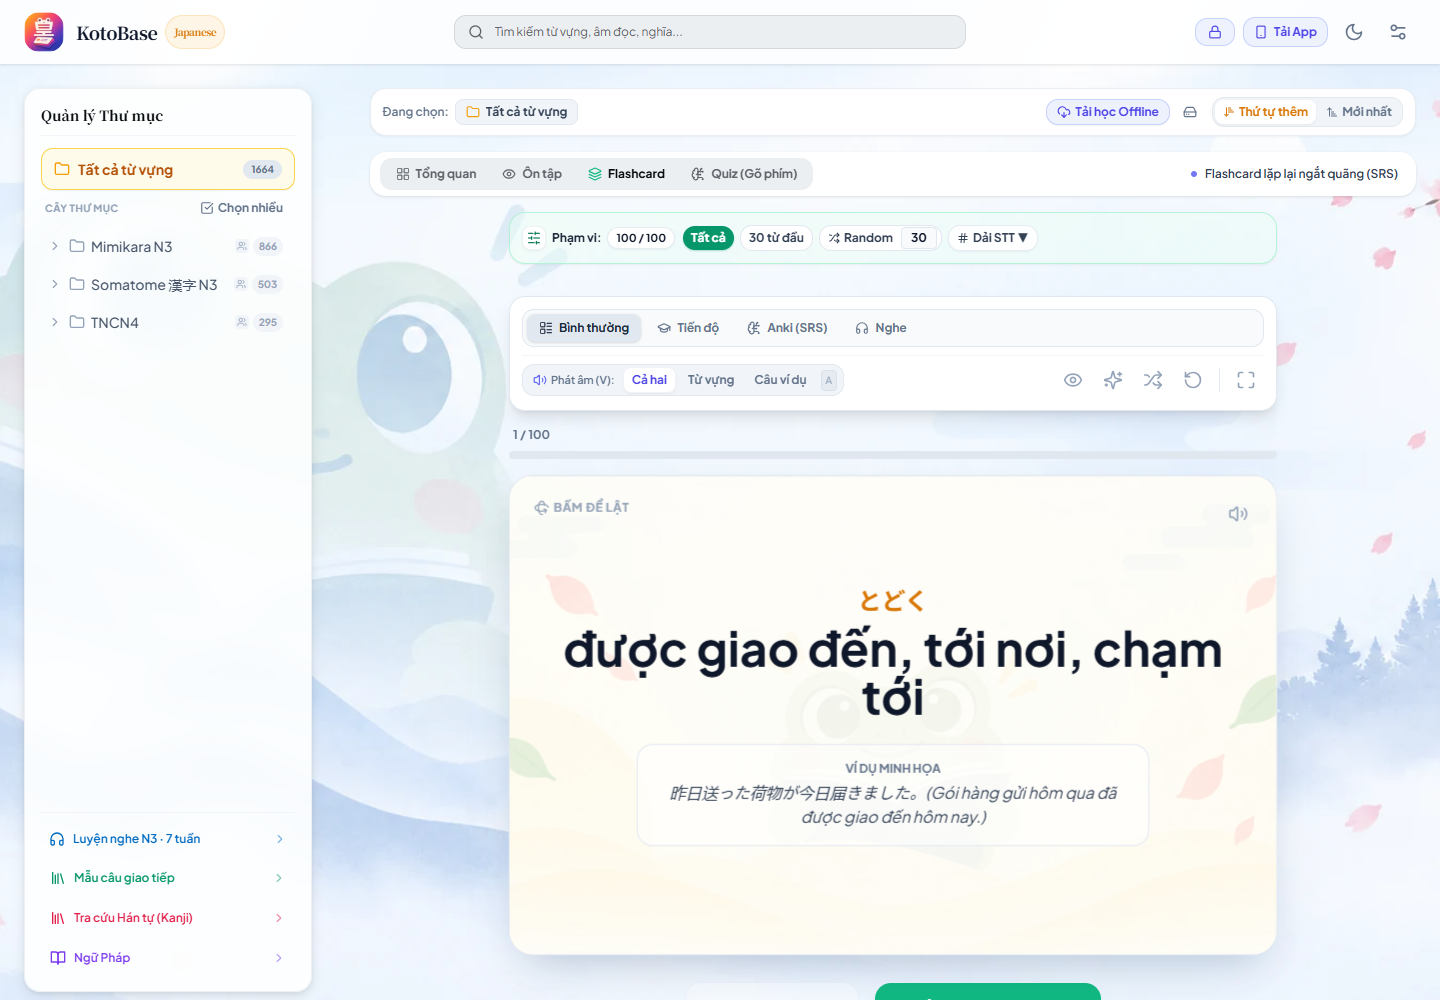
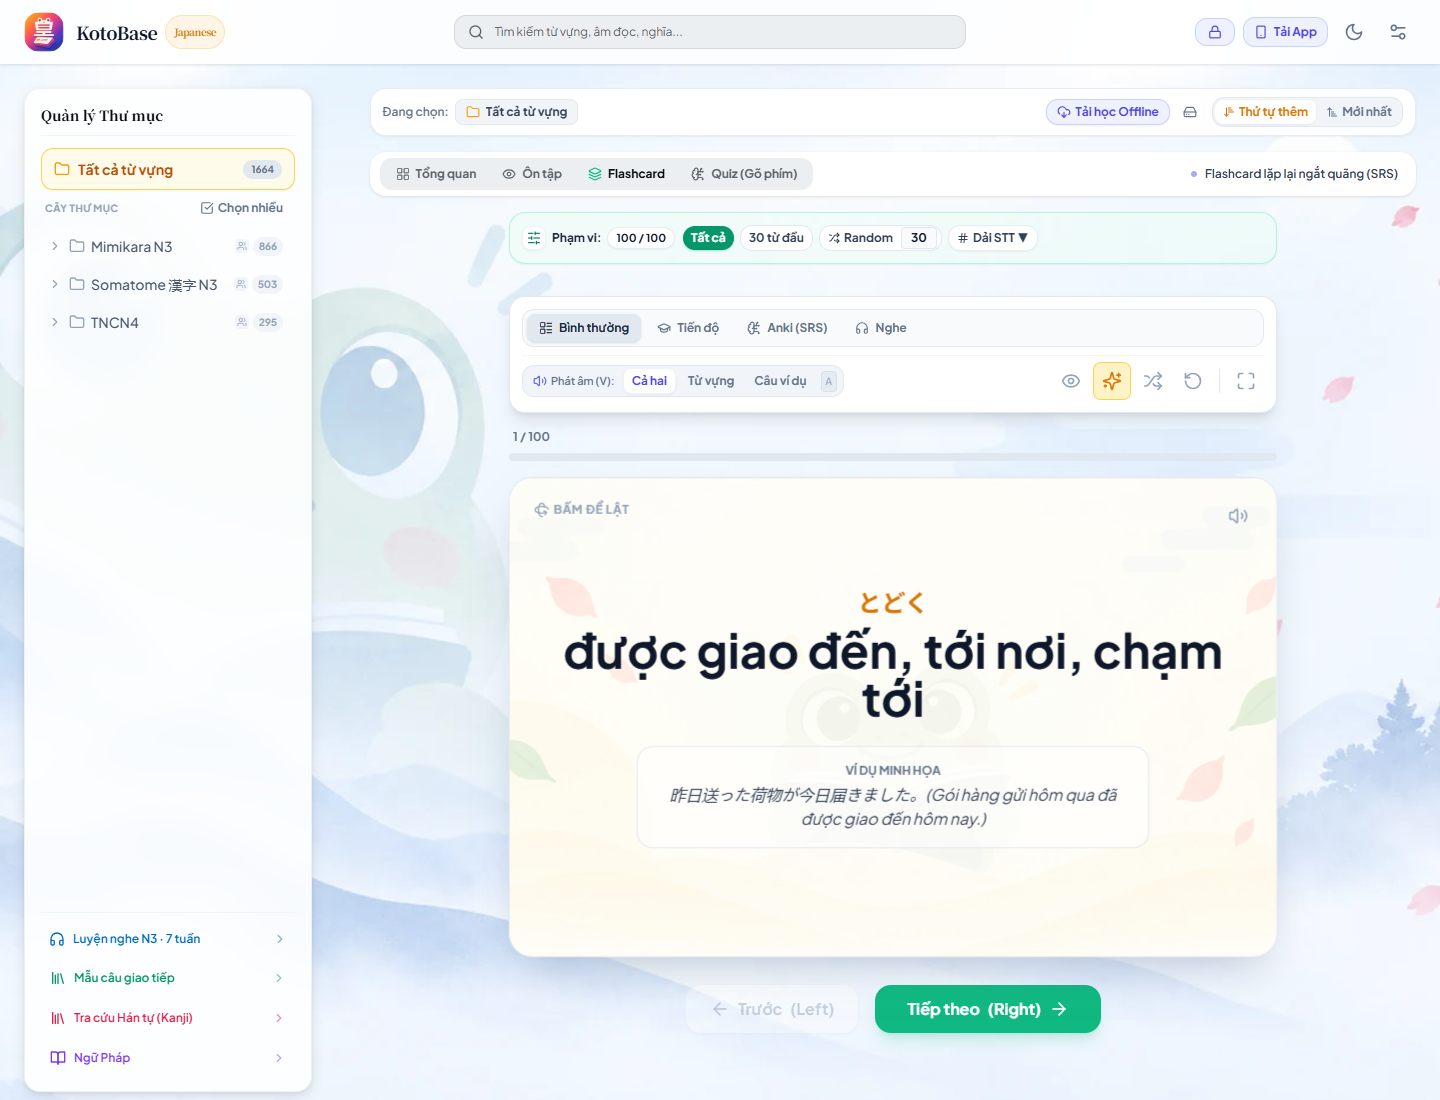
Add background preference and prepare quiz artwork before answer reveal

diff --git a/src/components/Dashboard.tsx b/src/components/Dashboard.tsx
@@ -205,6 +205,25 @@ export function Dashboard({ currentUser }: DashboardProps) {
 
   const { theme, setTheme } = useTheme();
   const [mounted, setMounted] = useState(false);
+  const [hideBackground, setHideBackground] = useState(false);
+
+  useEffect(() => {
+    try {
+      setHideBackground(localStorage.getItem("kotobase_hide_background") === "true");
+    } catch {
+      // Keep the default when browser storage is unavailable.
+    }
+  }, []);
+
+  const toggleBackground = () => {
+    const next = !hideBackground;
+    setHideBackground(next);
+    try {
+      localStorage.setItem("kotobase_hide_background", String(next));
+    } catch {
+      // The setting still works for this session without persistent storage.
+    }
+  };
   const isOnline = useOnlineStatus();
   const [isOfflineMode, setIsOfflineMode] = useState(false);
 
@@ -474,7 +493,7 @@ export function Dashboard({ currentUser }: DashboardProps) {
   }
 
   return (
-    <div className="study-dashboard min-h-screen text-slate-900 dark:text-slate-100 font-sans antialiased pb-24 md:pb-0 flex flex-col transition-colors duration-300">
+    <div data-hide-background={hideBackground} className="study-dashboard min-h-screen text-slate-900 dark:text-slate-100 font-sans antialiased pb-24 md:pb-0 flex flex-col transition-colors duration-300">
       {/* Top Navbar */}
       <header className="sticky top-0 z-40 shadow-elevation-sm bg-[oklch(var(--color-surface)/0.85)] backdrop-blur-xl transition-colors duration-300">
         <div className="max-w-screen-2xl mx-auto px-4 lg:px-6 py-3 md:h-16 flex flex-wrap items-center justify-between gap-3 md:gap-4">
@@ -583,7 +602,24 @@ export function Dashboard({ currentUser }: DashboardProps) {
                     className="fixed inset-0 z-40" 
                     onClick={() => setShowSettingsDropdown(false)}
                   ></div>
-                  <div className="absolute right-0 mt-2 w-56 bg-white dark:bg-slate-900 border border-slate-200 dark:border-slate-700 rounded-2xl shadow-xl z-50 overflow-hidden animate-fadeIn">
+                  <div className="absolute right-0 mt-2 w-56 max-h-[calc(100dvh-6rem)] overflow-y-auto bg-white dark:bg-slate-900 border border-slate-200 dark:border-slate-700 rounded-2xl shadow-xl z-50 animate-fadeIn">
+                    <button
+                      type="button"
+                      role="switch"
+                      aria-checked={hideBackground}
+                      aria-label="Ẩn ảnh nền"
+                      aria-describedby="background-setting-description"
+                      onClick={toggleBackground}
+                      className="w-full flex items-center justify-between gap-3 px-4 py-3 text-left border-b border-slate-100 dark:border-slate-800 hover:bg-slate-50 dark:hover:bg-slate-800 transition-colors focus-visible:outline-none focus-visible:ring-2 focus-visible:ring-inset focus-visible:ring-indigo-500"
+                    >
+                      <span>
+                        <span className="block text-sm font-semibold text-slate-700 dark:text-slate-300">Ẩn ảnh nền</span>
+                        <span id="background-setting-description" className="block mt-0.5 text-[11px] text-slate-500 dark:text-slate-400">Nền trang và thẻ học</span>
+                      </span>
+                      <span aria-hidden="true" className={`flex h-5 w-9 shrink-0 items-center rounded-full p-0.5 transition-colors ${hideBackground ? "bg-indigo-600" : "bg-slate-300 dark:bg-slate-600"}`}>
+                        <span className={`h-4 w-4 rounded-full bg-white shadow-sm transition-transform ${hideBackground ? "translate-x-4" : "translate-x-0"}`} />
+                      </span>
+                    </button>
                     {/* Quick Volume Slider */}
                     <div className="p-3 border-b border-slate-100 dark:border-slate-800 bg-slate-50/70 dark:bg-slate-800/40 space-y-1.5">
                       <div className="flex items-center justify-between text-xs">

diff --git a/src/components/FlashcardView.tsx b/src/components/FlashcardView.tsx
@@ -1329,43 +1329,6 @@ export function FlashcardView({ vocabularies, selectedVocabIds = [], isActive = 
               </>
             )}
 
-            {/* Mẹo nhớ Hán tự trên mặt sau thẻ */}
-            {showMnemonic && availableMnemonics.length > 0 && (
-              <div 
-                onClick={(e) => e.stopPropagation()} 
-                className="w-full max-w-xl mx-auto bg-amber-50/80 dark:bg-amber-950/25 border border-amber-200/70 dark:border-amber-500/20 rounded-2xl p-4 sm:p-5 text-left shadow-xs animate-fadeIn select-text mb-3 sm:mb-4"
-              >
-                <div className="flex items-center justify-between gap-2 mb-3 pb-2 border-b border-amber-200/50 dark:border-amber-500/15">
-                  <span className="text-xs sm:text-sm font-bold text-amber-700 dark:text-amber-300 flex items-center gap-1.5 uppercase tracking-wider">
-                    <Sparkles className="w-4 h-4 text-amber-500 shrink-0" />
-                    Mẹo nhớ Hán tự ({availableMnemonics.length})
-                  </span>
-                  <span className="text-[11px] text-slate-400 dark:text-slate-500 font-medium">
-                    Phím [M]
-                  </span>
-                </div>
-                <div className="space-y-3 max-h-[160px] sm:max-h-[200px] overflow-y-auto pr-1 [scrollbar-width:thin]">
-                  {availableMnemonics.map(({ char, hanviet, mnemonic }) => (
-                    <div key={char} className="flex items-start gap-3 text-sm sm:text-base leading-relaxed">
-                      <div className="shrink-0 flex items-center gap-1.5 bg-white dark:bg-slate-800 border border-amber-200 dark:border-slate-700 px-2.5 py-1 rounded-xl shadow-xs">
-                        <span className="font-black text-amber-600 dark:text-amber-400 text-xl sm:text-2xl font-japanese">
-                          {char}
-                        </span>
-                        {hanviet && (
-                          <span className="text-[11px] sm:text-xs font-bold text-slate-500 dark:text-slate-400 uppercase">
-                            {hanviet}
-                          </span>
-                        )}
-                      </div>
-                      <div className="flex-1 text-slate-700 dark:text-slate-200 pt-1 text-sm sm:text-base">
-                        <HighlightMnemonic text={mnemonic} />
-                      </div>
-                    </div>
-                  ))}
-                </div>
-              </div>
-            )}
-
             {/* Ví dụ minh họa */}
             {currentVocab.example && (
               <div className="p-3 sm:p-4 bg-white/50 dark:bg-slate-950/50 rounded-2xl border border-slate-200 dark:border-slate-700/50 w-full max-w-lg">

diff --git a/src/app/globals.css b/src/app/globals.css
@@ -44,8 +44,7 @@
   opacity: 0.4;
 }
 
-.study-card-artwork::before {
-  content: "";
+.study-card-artwork-layer {
   position: absolute;
   inset: 0;
   background-image: var(--study-card-art);
@@ -54,14 +53,20 @@
      artwork container measures itself without affecting the card's height. */
   background-size: max(110cqw, 188cqh) auto;
   background-position: center 49%;
+  opacity: 0;
 }
 
-.study-card-artwork--front {
+.study-card-artwork-layer--front {
   --study-card-art: url('/images/study/flashcard-frog.webp');
 }
 
-.study-card-artwork--back {
+.study-card-artwork-layer--back {
   --study-card-art: url('/images/study/quiz-frog.webp');
+}
+
+.study-card-artwork--front > .study-card-artwork-layer--front,
+.study-card-artwork--back > .study-card-artwork-layer--back {
+  opacity: 1;
 }
 
 .study-flashcard {
@@ -86,7 +91,13 @@
   background-image: none;
 }
 
-.dark .study-card-artwork {
+.study-dashboard[data-hide-background="true"] {
+  background-color: oklch(var(--color-bg));
+  background-image: none;
+}
+
+.dark .study-card-artwork,
+.study-dashboard[data-hide-background="true"] .study-card-artwork {
   display: none;
 }
 

diff --git a/src/components/StudyCardArtwork.tsx b/src/components/StudyCardArtwork.tsx
@@ -1,4 +1,10 @@
 /** Decorative artwork shared by flashcard faces and quiz question/answer states. */
 export function StudyCardArtwork({ side }: { side: "front" | "back" }) {
-  return <span aria-hidden="true" className={`study-card-artwork study-card-artwork--${side}`} />;
+  // Keep both images mounted so the answer artwork loads before it is revealed.
+  return (
+    <span aria-hidden="true" className={`study-card-artwork study-card-artwork--${side}`}>
+      <span className="study-card-artwork-layer study-card-artwork-layer--front" />
+      <span className="study-card-artwork-layer study-card-artwork-layer--back" />
+    </span>
+  );
 }

diff --git a/public/images/study/README.md b/public/images/study/README.md
@@ -10,6 +10,10 @@ User-supplied artwork, converted to WebP (quality 88) without resizing or changi
 
 The historical filenames are retained; they identify the two faces, not separate study modes. `StudyCardArtwork` shares these faces between Flashcard and Quiz. Quiz switches to the back when the correct answer is revealed.
 
+Both artwork layers stay mounted, including the inactive layer, so both images load before the answer is shown. Switching faces changes layer opacity immediately rather than requesting a different CSS background image. Flashcard memory hints are rendered only on the front face.
+
 The images retain their alpha channel and outer frame. An absolutely positioned artwork container clips the frame, using `max(110cqw, 188cqh) auto` to cover the card without stretching the original 4:3 image. Card height remains content-driven in Quiz. Artwork opacity is 40%, independently of the text. Dark mode hides card artwork and removes the dashboard background image entirely. Styling lives in `src/app/globals.css`.
 
 Total runtime artwork: approximately 269 KB. Visual previews are in `docs/previews/study-theme`.
+
+Settings → “Ẩn ảnh nền” hides both dashboard and card artwork. The choice is stored per browser under `kotobase_hide_background` (default: false). Dark mode always hides artwork, regardless of this setting.

diff --git a/docs/previews/study-theme/README.md b/docs/previews/study-theme/README.md
@@ -2,12 +2,13 @@
 
 Screenshots from the running KotoBase application using its existing public vocabulary. No sample data is inserted into the database.
 
-- `flashcard-desktop.png`: 1440 × 1000, front face, light theme.
-- `flashcard-back-desktop.png`: 1440 × 1000, back face, light theme.
+- `flashcard-desktop.png`: 1440 × 1100, front face, light theme.
+- `flashcard-back-desktop.png`: 1440 × 1100, back face, light theme.
 - `flashcard-mobile.png`: 390 × 844, scrolled to the learning card.
-- `quiz-desktop.png`: 1440 × 1000, front/question artwork, light theme.
+- `quiz-desktop.png`: 1440 × 1100, front/question artwork, light theme.
 - `quiz-dark.png`: 1440 × 1000, no landscape or card artwork in dark mode.
 - `quiz-mobile.png`: 390 × 844, revealed correct answer with back artwork.
+- `settings-background.png`: 390 × 844, “Ẩn ảnh nền” enabled in Settings.
 
 Verified quiz answer submission switches artwork to `study-card-artwork--back` before advancing. Dark-mode computed styles confirm dashboard/card `background-image: none` and artwork `display: none`. Mobile widths 320px and 390px have no document overflow.
 
